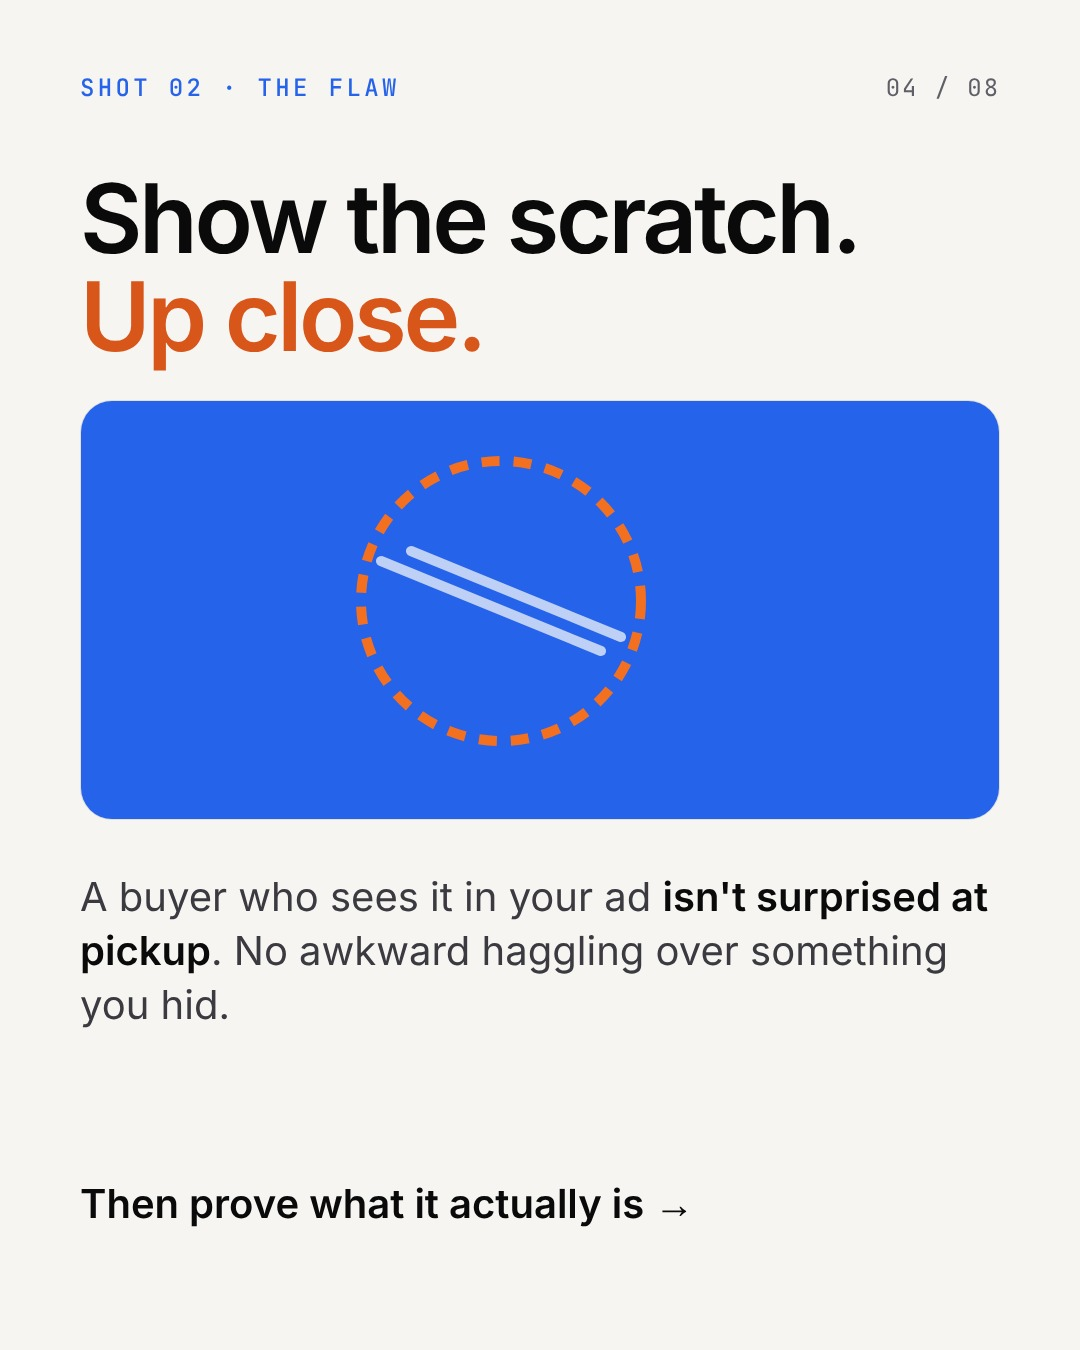
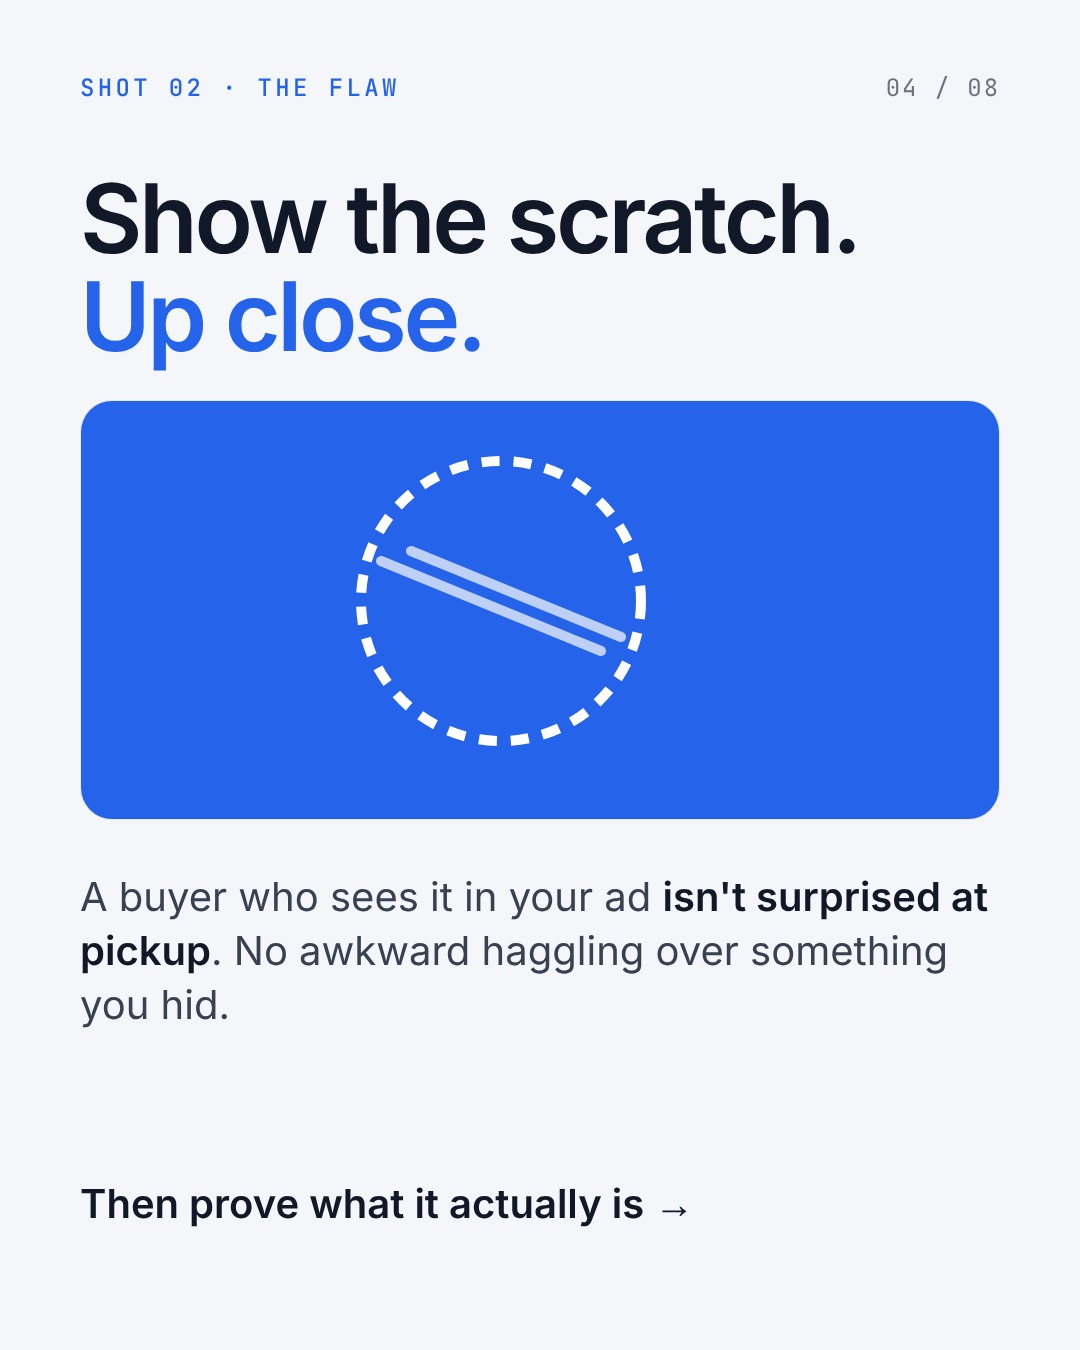
homingo: blue-and-white app theme only (no dark, no orange); recolour 2026-10-11 c2

diff --git a/posts/homingo/2026-10-11-c2-which-ad-would-you-tap.html b/posts/homingo/2026-10-11-c2-which-ad-would-you-tap.html
@@ -1,14 +1,14 @@
 <!doctype html>
 <html><head><meta charset="utf-8"><link rel="stylesheet" href="../../tools/fonts.css">
 <style>
-:root{--hb:#2563EB;--or:#D9561A;--ink:#0A0A0B;--mut:#5F5F68;--bg:#F6F5F2;--line:#E2E0DA}
+:root{--hb:#2563EB;--or:#2563EB;--ink:#111827;--mut:#6B7280;--bg:#F5F6FA;--line:#E5E7EB}
 html,body{background:var(--bg)}
 .deck{display:flex;position:relative;width:max-content}
 .slide{width:1080px;height:1350px;position:relative;overflow:hidden;background:var(--bg);color:var(--ink);font-family:Sans;flex:none}
 .num{position:absolute;top:72px;right:80px;font-family:Mono;font-size:24px;color:var(--mut);letter-spacing:.08em}
 .tag{position:absolute;top:72px;left:80px;font-family:Mono;font-size:24px;letter-spacing:.14em;color:var(--hb);text-transform:uppercase;font-weight:500}
 .h{position:absolute;left:80px;right:80px;font-weight:600;letter-spacing:-.035em;line-height:1.02}
-.b{position:absolute;left:80px;right:80px;font-size:40px;line-height:1.35;color:#3A3A40}
+.b{position:absolute;left:80px;right:80px;font-size:40px;line-height:1.35;color:#374151}
 .b strong{color:var(--ink);font-weight:600}
 .blue{color:var(--hb)} .orange{color:var(--or)}
 .next{position:absolute;left:80px;right:80px;bottom:150px;font-size:40px;line-height:1.3;font-weight:600}
@@ -31,7 +31,7 @@ html,body{background:var(--bg)}
     <rect x="0" y="90" width="60" height="110" rx="22" fill="#1D4ED8"/>
     <rect x="280" y="90" width="60" height="110" rx="22" fill="#1D4ED8"/>
     <rect x="50" y="140" width="240" height="60" rx="16" fill="#3B76F0"/>
-    <rect x="30" y="198" width="14" height="30" rx="4" fill="#0A0A0B"/><rect x="296" y="198" width="14" height="30" rx="4" fill="#0A0A0B"/>
+    <rect x="30" y="198" width="14" height="30" rx="4" fill="#111827"/><rect x="296" y="198" width="14" height="30" rx="4" fill="#111827"/>
   </g>
 </defs></svg>
 
@@ -47,7 +47,7 @@ html,body{background:var(--bg)}
     <div class="meta"><div class="t">Sofa for sale</div><div class="s">no details</div></div>
   </div>
   <div class="card" style="left:560px;top:520px">
-    <div class="ph" style="background:linear-gradient(180deg,#FFF7E6,#F3EEE4)">
+    <div class="ph" style="background:linear-gradient(180deg,#F8FAFF,#E8EFFD)">
       <div style="position:absolute;right:40px;top:30px;width:120px;height:150px;border:8px solid #fff;background:#DCEBFF;border-radius:6px"></div>
       <svg width="430" height="330" viewBox="0 0 430 330" style="position:absolute;left:0;top:0"><use href="#sofa" x="45" y="80"/></svg>
       <div class="letter">B</div><div class="badge">5 photos</div>
@@ -62,7 +62,7 @@ html,body{background:var(--bg)}
 <section class="slide">
   <div class="num">02 / 08</div>
   <div class="tag">Be honest</div>
-  <div class="h" style="top:190px;font-size:100px">You picked <span class="blue">B</span>, right?<span style="display:block;font-size:64px;color:#3A3A40;margin-top:28px">Before reading a single word.</span></div>
+  <div class="h" style="top:190px;font-size:100px">You picked <span class="blue">B</span>, right?<span style="display:block;font-size:64px;color:#374151;margin-top:28px">Before reading a single word.</span></div>
   <div class="b" style="top:600px">Your buyers probably do the same: photos first, then the title.</div>
   <div class="b" style="top:790px"><strong>B answered their questions before they could ask. Five photos did that.</strong></div>
   <div class="next">Shot 1 is the easiest to fix. <span>It's about where you stand →</span></div>
@@ -74,7 +74,7 @@ html,body{background:var(--bg)}
   <div class="tag">Shot 01 · daylight</div>
   <div class="h" style="top:170px;font-size:84px">Shoot near a window, in daylight.</div>
   <div class="b" style="top:400px">No flash, no tubelight at night. Whole item in frame, plain background.</div>
-  <div class="shot" style="background:linear-gradient(180deg,#FFF7E6,#F3EEE4)">
+  <div class="shot" style="background:linear-gradient(180deg,#F8FAFF,#E8EFFD)">
     <div style="position:absolute;left:90px;top:50px;width:220px;height:260px;border:12px solid #fff;background:linear-gradient(160deg,#CFE3FF,#EAF3FF);border-radius:8px;box-shadow:0 0 80px 30px rgba(255,236,190,.8)"></div>
     <svg width="920" height="470" viewBox="0 0 920 470" style="position:absolute;left:0;top:0"><use href="#sofa" x="420" y="170"/></svg>
   </div>
@@ -90,7 +90,7 @@ html,body{background:var(--bg)}
     <svg width="920" height="420" viewBox="0 0 920 420" style="position:absolute;left:0;top:0">
       <rect x="0" y="0" width="920" height="420" fill="#2563EB"/>
       <path d="M300 160 L520 250 M330 150 L540 236" stroke="#BFD0F7" stroke-width="10" stroke-linecap="round"/>
-      <circle cx="420" cy="200" r="140" fill="none" stroke="#F37021" stroke-width="10" stroke-dasharray="18 14"/>
+      <circle cx="420" cy="200" r="140" fill="none" stroke="#FFFFFF" stroke-width="10" stroke-dasharray="18 14"/>
     </svg>
   </div>
   <div class="b" style="top:870px">A buyer who sees it in your ad <strong>isn't surprised at pickup</strong>. No awkward haggling over something you hid.</div>
@@ -104,15 +104,15 @@ html,body{background:var(--bg)}
   <div class="h" style="top:170px;font-size:96px">The label, the bill, the box.</div>
   <div style="position:absolute;left:80px;right:80px;top:470px;display:grid;grid-template-columns:1fr 1fr 1fr;gap:24px">
     <div style="background:#fff;border:1.5px solid var(--line);border-radius:26px;height:300px;position:relative">
-      <div style="position:absolute;left:36px;right:36px;top:60px;height:120px;border:4px solid #0A0A0B;border-radius:10px"></div>
-      <div style="position:absolute;left:56px;top:84px;width:120px;height:12px;background:#0A0A0B;border-radius:4px"></div>
+      <div style="position:absolute;left:36px;right:36px;top:60px;height:120px;border:4px solid #111827;border-radius:10px"></div>
+      <div style="position:absolute;left:56px;top:84px;width:120px;height:12px;background:#111827;border-radius:4px"></div>
       <div style="position:absolute;left:56px;top:112px;width:160px;height:10px;background:#9A9AA3;border-radius:4px"></div>
       <div style="position:absolute;left:56px;top:136px;width:90px;height:10px;background:#9A9AA3;border-radius:4px"></div>
       <div style="position:absolute;left:0;right:0;bottom:30px;text-align:center;font-family:Mono;font-size:24px">model label</div>
     </div>
     <div style="background:#fff;border:1.5px solid var(--line);border-radius:26px;height:300px;position:relative">
-      <div style="position:absolute;left:70px;right:70px;top:40px;height:160px;background:#F6F5F2;border:3px solid #0A0A0B;border-radius:6px"></div>
-      <div style="position:absolute;left:92px;top:70px;width:100px;height:10px;background:#0A0A0B;border-radius:4px"></div>
+      <div style="position:absolute;left:70px;right:70px;top:40px;height:160px;background:#F6F5F2;border:3px solid #111827;border-radius:6px"></div>
+      <div style="position:absolute;left:92px;top:70px;width:100px;height:10px;background:#111827;border-radius:4px"></div>
       <div style="position:absolute;left:92px;top:100px;width:120px;height:8px;background:#9A9AA3;border-radius:4px"></div>
       <div style="position:absolute;left:92px;top:122px;width:120px;height:8px;background:#9A9AA3;border-radius:4px"></div>
       <div style="position:absolute;left:0;right:0;bottom:30px;text-align:center;font-family:Mono;font-size:24px">bill / warranty</div>
@@ -132,13 +132,13 @@ html,body{background:var(--bg)}
   <div class="tag">Shots 04 + 05 · size and working</div>
   <div style="position:absolute;left:80px;right:80px;top:170px;display:grid;grid-template-columns:1fr 1fr;gap:28px">
     <div style="background:#fff;border:1.5px solid var(--line);border-radius:28px;height:430px;position:relative;overflow:hidden">
-      <div style="position:absolute;left:40px;top:40px;width:130px;height:300px;border:6px solid #0A0A0B;border-bottom:none;border-radius:6px 6px 0 0"></div>
+      <div style="position:absolute;left:40px;top:40px;width:130px;height:300px;border:6px solid #111827;border-bottom:none;border-radius:6px 6px 0 0"></div>
       <div style="position:absolute;left:146px;top:200px;width:12px;height:12px;border-radius:50%;background:#0A0A0B"></div>
       <svg width="440" height="430" viewBox="0 0 440 430" style="position:absolute;left:0;top:0"><use href="#sofa" x="190" y="110" transform="translate(190 110) scale(.65) translate(-190 -110)"/></svg>
       <div style="position:absolute;left:30px;right:30px;bottom:28px;height:4px;background:#0A0A0B"></div>
     </div>
-    <div style="background:#0A0A0B;border-radius:28px;height:430px;position:relative;overflow:hidden">
-      <div style="position:absolute;left:50%;margin-left:-90px;top:50px;width:180px;height:320px;border-radius:30px;border:6px solid #3A3A40;background:linear-gradient(160deg,#3B76F0,#1D4ED8)"></div>
+    <div style="background:#DBE6FD;border-radius:28px;height:430px;position:relative;overflow:hidden">
+      <div style="position:absolute;left:50%;margin-left:-90px;top:50px;width:180px;height:320px;border-radius:30px;border:6px solid #374151;background:linear-gradient(160deg,#3B76F0,#1D4ED8)"></div>
       <div style="position:absolute;left:50%;margin-left:-40px;top:190px;width:80px;height:6px;border-radius:3px;background:#fff;opacity:.8"></div>
     </div>
   </div>

diff --git a/playbook/homingo.md b/playbook/homingo.md
@@ -33,9 +33,9 @@ Lucknow news this week (events, metro, new openings, festivals, weather that aff
 
 ## Visual system
 - **The app's real interface is the reference (owner, 2026-10-11).** Any phone screen, app flow or UI element in a post must match `brand/homingo-app/` (real screenshots + README with tokens). Prefer the real screenshots in a phone frame; never invent a different-looking app.
-- 1080×1350. Homingo palette = the app's: primary blue #2563EB (buttons, prices, accents), light ground #F5F6FA with white rounded cards (radius ~28px), near-black text #111827, grey #6B7280. Dark variant allowed: black #0A0A0B ground with the same blue. Orange #F37021 only as a small warning/highlight accent (red flags), never as the main colour.
+- **Blue and white only, like the app (owner, 2026-10-11).** Every @homingo._ carousel and story uses the app's light theme: ground #F5F6FA (or white #FFFFFF), white rounded cards (radius ~28px, thin #E5E7EB border, soft shadow), primary blue #2563EB for buttons, prices, key words and accents, a full #2563EB slide allowed for the CTA, near-black text #111827, grey #6B7280. NO black/dark backgrounds, NO orange, NO other accent colours (red flags use blue or #111827 bold text, not orange). 1080×1350 feed, 1080×1920 stories.
 - Prices in app screens use the app's own format "Rs 18,000".
-- Type: "Sans" (Inter) 600, big and tight, for headlines; key word in blue or orange; "Mono" for small labels (prices, distances, "TIP 03").
+- Type: "Sans" (Inter) 600, big and tight, for headlines; key word in blue; "Mono" for small labels (prices, distances, "TIP 03").
 - Compact, minimal UI feel: no loud colours, no heavy gradients, no bulky cards. Drawn icons and phone mockups in HTML/SVG.
 - Last slide: the CTA plus "Homingo · Lucknow's local marketplace" and "Link in bio".
 

diff --git a/playbook/FEEDBACK.md b/playbook/FEEDBACK.md
@@ -2,6 +2,7 @@
 
 Yusuf's notes to the content runs. Every run reads this first; it overrides everything except facts and the "Never" rules. Runs never edit this file. Add the newest note at the top, with a date.
 
+- 2026-10-11: @homingo._ carousels and stories must be BLUE AND WHITE like the app screenshots (brand/homingo-app/): light #F5F6FA/white ground, #2563EB blue, #111827 text. No dark backgrounds, no orange.
 - 2026-10-11: Posts about the Homingo app must reference the real app UI in brand/homingo-app/ (Home, Listing, My Ads, Search screenshots). App blue is #2563EB. Never publish the Chats screen.
 - 2026-10-11: Submission = a PUBLIC GitHub repo link + a short demo video link, both required. A live website link and a deck are optional. Never write "live demo" as a requirement.
 - 2026-10-10: Everything planned for a day must go live that day. Late is fine, missing is not. If something breaks, fix it and still post it.
